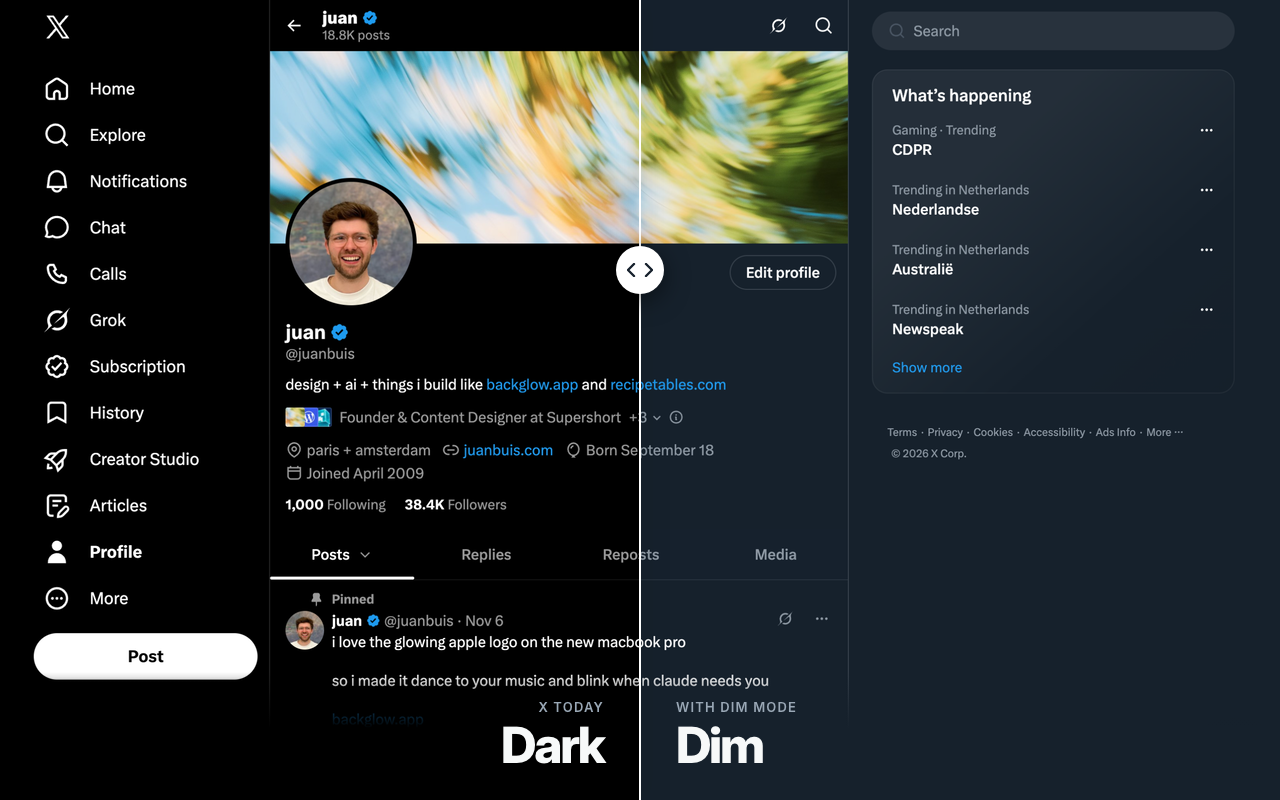
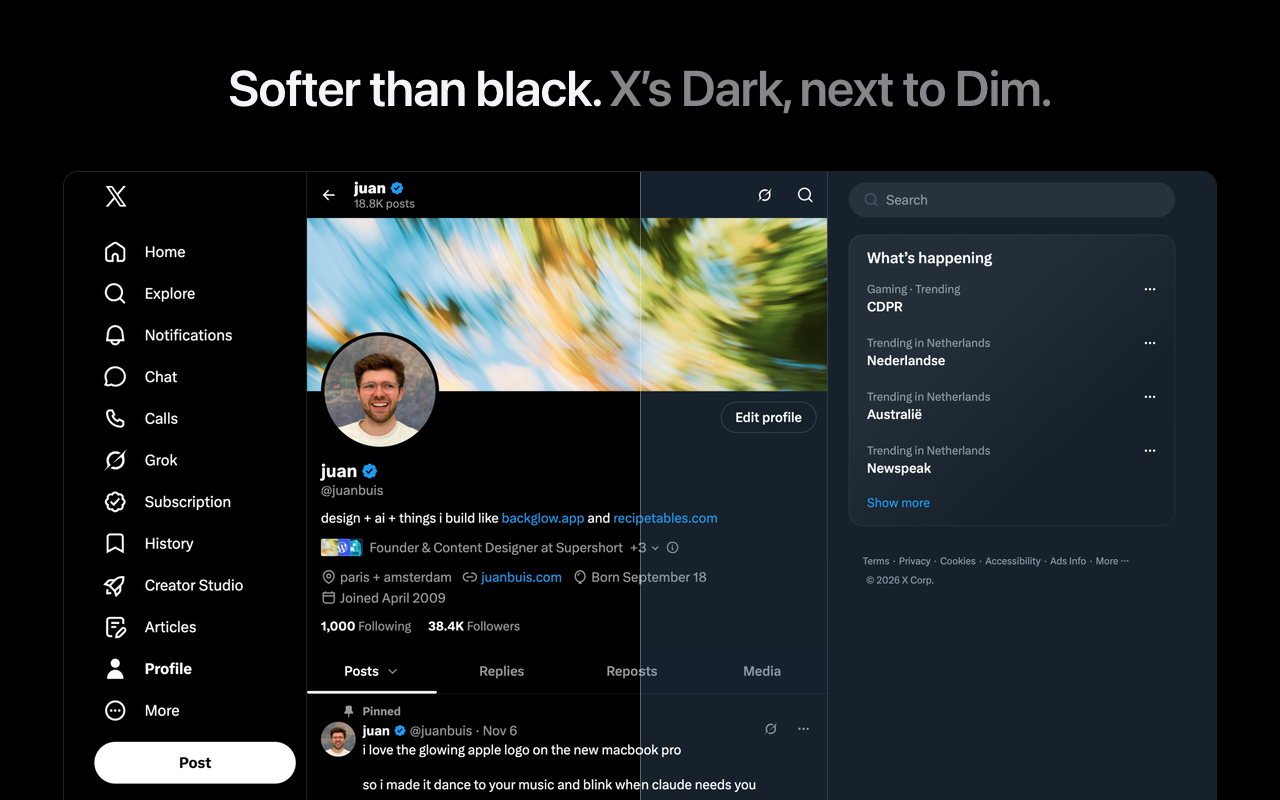
store: screenshots redone flat, one line of type over the product
Juan's note on the first set: good, but not refined enough, should feel like
Apple's design and not like something generated. The first set had the usual
tells: blue radial glows, drop shadows, heavy tight Inter, a blue ring around
the Dim row, a slider knob on the before/after, slanted theme bands, a brand
badge, and a different layout for every other image.

Now all five share one template: black canvas, a single centered line in the
system font (SF Pro, semibold, the second sentence in gray), then the product
with a hairline edge. Black because it makes Dim's blue the only color in the
image, and because black is what X offers today.

Per image:
- 2: no knob, no labels; the headline says which half is which
- 3: the Background group alone at 1.5x, with no highlight drawn on it. The
  checked radio is X's own.
- 4: six straight columns with the theme names above them; the popup is gone
  from this one
- 5: popup, Extras, Sidebar left to right, which is the click path (each
  card's chevron row points at the next card)

Captures are unchanged; make.sh rebuilds the set.

diff --git a/store/screenshots/src/4-themes.html b/store/screenshots/src/4-themes.html
@@ -1,36 +1,22 @@
 <!doctype html><meta charset="utf-8"><link rel="stylesheet" href="shots.css">
 <style>
-  .band { position: absolute; inset: 0; }
-  .band img { position: absolute; left: 0; top: 0; }
-  .foot { position: absolute; left: 0; right: 0; bottom: 0; height: 210px; }
-  .name { position: absolute; bottom: 58px; width: 192px; text-align: center; font-size: 25px; font-weight: 700; letter-spacing: -0.03em; }
+  .win { top: 204px; }
+  .win img { position: absolute; left: 0; top: 0; }
+  .names { position: absolute; left: 64px; top: 164px; width: 1152px; display: flex; }
+  .names b { flex: 1; text-align: center; font-size: 17px; line-height: 22px; font-weight: 500; letter-spacing: -0.01em; color: #86868b; }
 </style>
 <body>
-<div class="glow"></div>
-<header style="position:absolute;left:72px;top:54px">
-  <h1 style="font-size:56px">Dim, or any shade you like.</h1>
-  <p class="sub">The original dark blue, five more themes, or a color of your own.</p>
-</header>
-<div class="win" id="win" style="left:64px;top:206px;width:1152px;height:620px"></div>
-<div class="card" style="right:64px;top:40px;width:288px"><iframe class="ext" style="width:240px;zoom:1.2" src="pages/popup.html"></iframe></div>
+<h1 style="top:54px">Dim, or any shade you like.</h1>
+<div class="names"><b>Dim</b><b>Slate</b><b>Jade</b><b>Plum</b><b>Dusk</b><b>Ember</b></div>
+<div class="win" id="win"></div>
 <script>
-  // Each band is the same page captured in one theme; the foot fades into that
-  // theme's own background so its name sits on its color.
-  const T = [["dim", "Dim", 210, 34], ["slate", "Slate", 210, 8], ["jade", "Jade", 150, 34], ["plum", "Plum", 270, 34], ["dusk", "Dusk", 330, 34], ["ember", "Ember", 25, 34]];
-  const win = document.getElementById("win"), W = 1152, H = 620, VIS = 800 - 206, w = W / 6, d = 64;
-  const x = (i, y) => i * w + d / 2 - d * (y / H);          // band edge i at height y: leans left going down
-  T.forEach(([id, name, h, s], i) => {
-    const l0 = i ? x(i, 0) : 0, l1 = i ? x(i, H) : 0, r0 = i < 5 ? x(i + 1, 0) : W, r1 = i < 5 ? x(i + 1, H) : W;
-    const band = document.createElement("div"); band.className = "band";
-    band.style.clipPath = `polygon(${l0}px 0, ${r0}px 0, ${r1}px ${H}px, ${l1}px ${H}px)`;
-    const yName = VIS - 46, cx = (x(i, yName) + x(i + 1, yName)) / 2;
-    band.innerHTML = `<img src="img/s4-${id}.png" width="${W}" alt="">
-      <div class="foot" style="background:linear-gradient(hsla(${h}, ${s}%, 13%, 0), hsl(${h}, ${s}%, 13%) 52%)"></div>
-      <div class="name" style="left:${cx - 96}px">${name}</div>`;
-    win.appendChild(band);
+  // The same page captured in each theme, one sixth of the width apiece.
+  const win = document.getElementById("win"), W = 1152, w = W / 6;
+  ["dim", "slate", "jade", "plum", "dusk", "ember"].forEach((id, i) => {
+    const im = new Image(); im.src = `img/s4-${id}.png`; im.width = W; im.alt = "";
+    im.style.clipPath = `inset(0 ${W - (i + 1) * w}px 0 ${i * w}px)`;
+    win.appendChild(im);
+    if (i) win.insertAdjacentHTML("beforeend", `<div style="position:absolute;top:0;bottom:0;left:${i * w}px;width:1px;background:rgba(255,255,255,.16);z-index:1"></div>`);
   });
-  win.insertAdjacentHTML("beforeend", `<svg style="position:absolute;inset:0" width="${W}" height="${H}">` + [1, 2, 3, 4, 5].map((i) =>
-    `<line x1="${x(i, 0)}" y1="0" x2="${x(i, H)}" y2="${H}" stroke="rgba(255,255,255,.24)" stroke-width="1"/>`).join("") + `</svg>`);
 </script>
-<script src="fit.js"></script>
 </body>

diff --git a/store/screenshots/src/shots.css b/store/screenshots/src/shots.css
@@ -1,27 +1,20 @@
-@import url("https://fonts.googleapis.com/css2?family=Inter:opsz,wght@14..32,400..800&display=block");
+/* One template for all five: a single line of type, then the product.
+   Black canvas, so Dim's blue is the only color on the page. No glows, no
+   shadows, no badges. System font = SF Pro on the Mac this is rendered on. */
 * { box-sizing: border-box; }
 html, body { margin: 0; }
 body {
   width: 1280px; height: 800px; overflow: hidden; position: relative;
-  background: hsl(210, 40%, 8%); color: #f7f9f9;
-  font-family: Inter, system-ui, sans-serif; -webkit-font-smoothing: antialiased;
+  background: #000; color: #f5f5f7;
+  font-family: -apple-system, BlinkMacSystemFont, "SF Pro Display", system-ui, sans-serif;
+  -webkit-font-smoothing: antialiased;
 }
-/* One light source per image: X's blue, low and to the right, behind the subject. */
-.glow { position: absolute; inset: 0; pointer-events: none;
-  background:
-    radial-gradient(980px 560px at 82% 112%, hsla(204, 88%, 53%, .24), transparent 70%),
-    radial-gradient(760px 420px at -4% -8%, hsla(210, 60%, 46%, .14), transparent 70%); }
-h1 { margin: 0; font-weight: 800; font-size: 64px; line-height: 1.03; letter-spacing: -0.045em; }
-.sub { margin: 18px 0 0; font-size: 23px; line-height: 1.42; letter-spacing: -0.014em; font-weight: 450; color: hsl(210, 20%, 72%); }
-.brand { position: absolute; right: 72px; top: 62px; display: flex; align-items: center; gap: 12px;
-  font-weight: 700; font-size: 19px; letter-spacing: -0.02em; color: hsl(210, 20%, 82%); }
-.brand img { width: 40px; height: 40px; border-radius: 10px; }
-.win { position: absolute; overflow: hidden; border-radius: 16px 16px 0 0;
-  background: hsl(210, 34%, 13%);
-  box-shadow: 0 0 0 1px hsl(210, 18%, 30%), 0 40px 120px rgba(0, 0, 0, .6); }
-.win img { display: block; }
-.card { position: absolute; overflow: hidden; border-radius: 18px;
-  background: hsl(210, 34%, 13%);
-  box-shadow: 0 0 0 1px hsl(210, 18%, 30%), 0 34px 90px rgba(0, 0, 0, .55); }
-.card img { display: block; }
+h1 { position: absolute; left: 0; right: 0; top: 58px; margin: 0; text-align: center; white-space: nowrap;
+  font-weight: 600; font-size: 50px; line-height: 60px; letter-spacing: -0.022em; }
+h1 span { color: #86868b; }
+.win, .card { position: absolute; overflow: hidden; background: rgb(22, 33, 44);
+  box-shadow: 0 0 0 1px rgba(255, 255, 255, .13); }
+.win { left: 64px; top: 172px; width: 1152px; height: 640px; border-radius: 14px 14px 0 0; }
+.card { border-radius: 22px; }
+.win img, .card img { display: block; }
 iframe.ext { display: block; border: 0; }

diff --git a/store/screenshots/src/2-before-after.html b/store/screenshots/src/2-before-after.html
@@ -1,21 +1,12 @@
 <!doctype html><meta charset="utf-8"><link rel="stylesheet" href="shots.css">
 <style>
-  .half { position: absolute; top: 0; height: 800px; overflow: hidden; }
-  .fade { position: absolute; top: 672px; height: 128px; }
-  .line { position: absolute; left: 639px; top: 0; width: 2px; height: 800px; background: #fff; box-shadow: 0 0 24px rgba(0,0,0,.6); }
-  .knob { position: absolute; left: 616px; top: 246px; width: 48px; height: 48px; border-radius: 50%; background: #fff;
-    box-shadow: 0 6px 24px rgba(0,0,0,.5); display: grid; place-items: center; }
-  .label { position: absolute; bottom: 30px; }
-  .label small { display: block; font-size: 13px; font-weight: 600; letter-spacing: .09em; text-transform: uppercase; color: hsl(210, 16%, 66%); }
-  .label b { display: block; margin-top: 5px; font-size: 50px; font-weight: 800; letter-spacing: -0.045em; line-height: 1; }
+  .win img { position: absolute; left: 0; top: 0; }
+  .dark { position: absolute; left: 0; top: 0; width: 576px; height: 100%; overflow: hidden; box-shadow: 1px 0 0 rgba(255, 255, 255, .3); }
 </style>
-<body style="background:#000">
-<img src="img/s2-dim.png" width="1280" style="position:absolute;left:0;top:0" alt="">
-<div class="half" style="left:0;width:640px"><img src="img/s2-black.png" width="1280" alt=""></div>
-<div class="fade" style="left:0;width:640px;background:linear-gradient(rgba(0,0,0,0), #000 44%)"></div>
-<div class="fade" style="left:640px;width:640px;background:linear-gradient(rgba(22,33,44,0), rgb(22,33,44) 44%)"></div>
-<div class="line"></div>
-<div class="knob"><svg width="26" height="14" viewBox="0 0 26 14" fill="none" stroke="#16212c" stroke-width="2.4" stroke-linecap="round" stroke-linejoin="round"><path d="M7 1 1 7l6 6M19 1l6 6-6 6"/></svg></div>
-<div class="label" style="right:676px;text-align:right"><small>X today</small><b>Dark</b></div>
-<div class="label" style="left:676px"><small>With Dim Mode</small><b>Dim</b></div>
+<body>
+<h1>Softer than black. <span>X’s Dark, next to Dim.</span></h1>
+<div class="win">
+  <img src="img/s1-dim.png" width="1152" alt="">
+  <div class="dark"><img src="img/s1-black.png" width="1152" alt=""></div>
+</div>
 </body>

diff --git a/store/screenshots/src/5-extras.html b/store/screenshots/src/5-extras.html
@@ -1,11 +1,9 @@
 <!doctype html><meta charset="utf-8"><link rel="stylesheet" href="shots.css">
 <body>
-<div class="glow"></div>
-<div style="position:absolute;left:72px;top:198px;width:440px">
-  <h1 style="font-size:58px">Bring back<br>the bird.<br>Lose the<br>clutter.</h1>
-  <p class="sub">The bird logo, “Tweet” instead of “Post”, your own button color, no Grok, and only the sidebar items you use. All optional.</p>
-</div>
-<div class="card" style="left:572px;top:56px;width:312px"><iframe class="ext" style="width:260px;zoom:1.2" src='pages/extras.html?s={"birdLogo":true,"tweetWording":true,"classicFavicon":true,"imageGrid":true,"copyLinkFirst":true,"hideGrok":true,"buttonColor":"custom","buttonHex":"%23ff5500","hiddenNav":["calls","premium"]}'></iframe></div>
-<div class="card" style="left:908px;top:150px;width:312px"><iframe class="ext" style="width:260px;zoom:1.2" src='pages/sidebar.html?s={"hiddenNav":["calls","premium","studio","articles","chatBubble"]}'></iframe></div>
+<h1>Bring back the bird. <span>Lose the clutter.</span></h1>
+<!-- The click path, left to right: popup, its Extras row, Extras' Sidebar row. -->
+<div class="card" style="left:190px;top:176px;width:264px"><iframe class="ext" style="width:240px;zoom:1.1" src="pages/popup.html"></iframe></div>
+<div class="card" style="left:486px;top:176px;width:286px"><iframe class="ext" style="width:260px;zoom:1.1" src='pages/extras.html?s={"birdLogo":true,"tweetWording":true,"classicFavicon":true,"imageGrid":true,"copyLinkFirst":true,"hideGrok":true,"buttonColor":"custom","buttonHex":"%23ff5500","hiddenNav":["calls","premium"]}'></iframe></div>
+<div class="card" style="left:804px;top:176px;width:286px"><iframe class="ext" style="width:260px;zoom:1.1" src='pages/sidebar.html?s={"hiddenNav":["calls","premium","studio","articles","chatBubble"]}'></iframe></div>
 <script src="fit.js"></script>
 </body>

diff --git a/store/screenshots/src/3-in-x-settings.html b/store/screenshots/src/3-in-x-settings.html
@@ -1,16 +1,5 @@
 <!doctype html><meta charset="utf-8"><link rel="stylesheet" href="shots.css">
-<style>
-  .ring { position: absolute; left: 6px; top: 474px; width: 665px; height: 54px; border-radius: 14px;
-    box-shadow: 0 0 0 2px #1d9bf0, 0 0 0 7px hsla(204, 88%, 53%, .18); background: hsla(204, 88%, 53%, .07); }
-</style>
 <body>
-<div class="glow"></div>
-<div style="position:absolute;left:72px;top:250px;width:420px">
-  <h1 style="font-size:60px">Right where it belongs.</h1>
-  <p class="sub">Dim sits in X’s own Appearance settings, between Light and Dark. Pick it once and it stays.</p>
-</div>
-<div class="card" style="left:539px;top:62px;width:677px;height:676px">
-  <img src="img/s3-pane.png" width="677" height="676" alt="">
-  <div class="ring"></div>
-</div>
+<h1>Right where it belongs. <span>In X’s own settings.</span></h1>
+<div class="card" style="left:134px;top:252px;width:1012px;height:456px;border-radius:28px"><img src="img/s3-background.png" width="1012" height="456" alt=""></div>
 </body>

diff --git a/store/screenshots/src/1-dim-is-back.html b/store/screenshots/src/1-dim-is-back.html
@@ -1,10 +1,5 @@
 <!doctype html><meta charset="utf-8"><link rel="stylesheet" href="shots.css">
 <body>
-<div class="glow"></div>
-<header style="position:absolute;left:72px;top:50px">
-  <h1>Dim is back.</h1>
-  <p class="sub">The dark blue theme X removed, rebuilt for the new X.</p>
-</header>
-<div class="brand"><img src="img/icon.png" alt="">Dim Mode</div>
-<div class="win" style="left:64px;top:234px;width:1152px;height:600px"><img src="img/s1-dim.png" width="1152" alt=""></div>
+<h1>Dim is back. <span>Rebuilt for the new X.</span></h1>
+<div class="win"><img src="img/s1-dim.png" width="1152" alt=""></div>
 </body>

diff --git a/TODO.md b/TODO.md
@@ -57,10 +57,10 @@ five files for every store. They replace the four in `store/safari/screenshots/`
 and the three on AMO, which show the old X.
 
 1. `1-dim-is-back.png` — your profile on the redesigned X, in Dim
-2. `2-before-after.png` — X's Dark next to Dim, same page
-3. `3-in-x-settings.png` — X's Appearance panel with the Dim row
-4. `4-themes.png` — the six themes across one page, with the popup
-5. `5-extras.png` — the Extras and Sidebar pages
+2. `2-before-after.png` — the same page, X's Dark on the left, Dim on the right
+3. `3-in-x-settings.png` — the Background group of X's Appearance panel, Dim picked
+4. `4-themes.png` — the six themes as six columns of one page
+5. `5-extras.png` — the popup, Extras and Sidebar pages
 
 - [ ] Upload them to CWS, AMO and (when it ships) the Mac App Store; Edge when
       the account is verified
